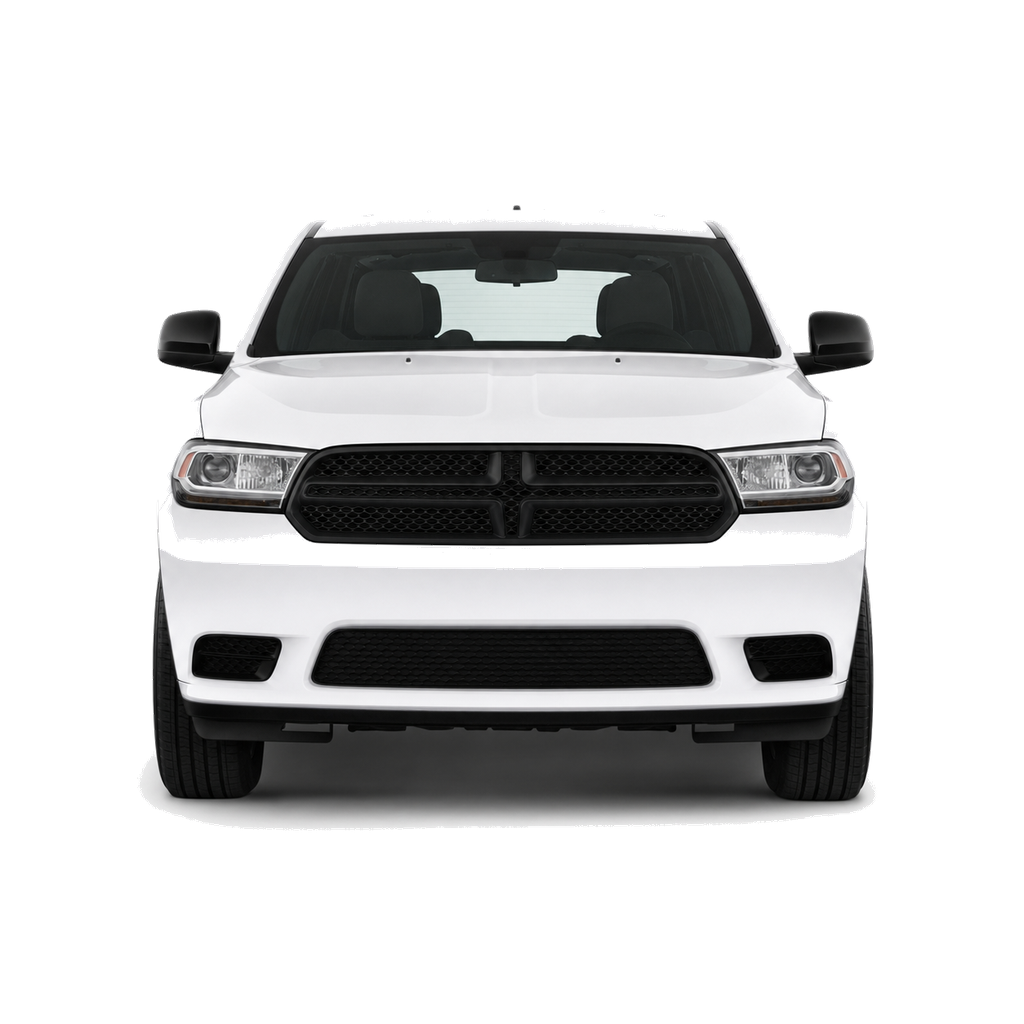
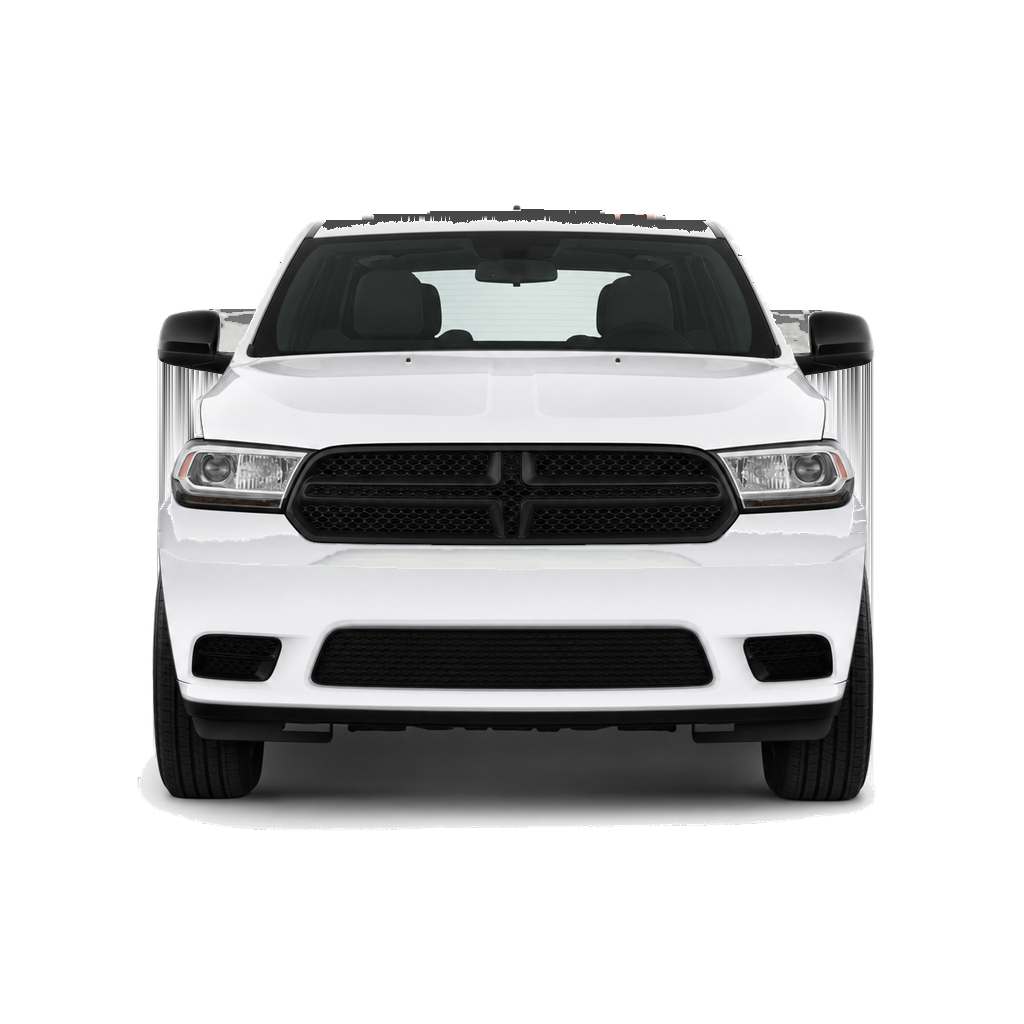
Fix Durango Front fascia alpha holes from DHC-ICE studio
Rebuild white/black Front plates so the under-grille fascia is solid paint (no stage bleed). Use DHC-ICEv2 page-02 front as studio guidance; leave compiled-app Front untouched. Re-download zip after pull — hard refresh is not enough for a local extract.

Changed region(s): [[0.1562, 0.2812, 0.875, 0.5625], [0.3125, 0.1875, 0.6875, 0.25], [0.2188, 0.2812, 0.25, 0.3438]]

diff --git a/visualizer/README.md b/visualizer/README.md
@@ -34,7 +34,9 @@ Catalog `w` values are percent of stage/vehicle width, tuned for Durango against
 
 Click-to-place defaults are **view-aware** (front/rear/hero/side) and include Durango `fixtureNudge` (+1% Y) from the Perplexity reference.
 
-White Durango plates are synced from `compiled-app/` (no matte despill). Black body uses the existing `*_black.png` plates.
+White/black **Front** plates (`durango_front.png`, `durango_front_black.png`) were rebuilt to close internal alpha holes in the fascia under the grille (jagged stage bleed). Studio guidance came from DHC-ICEv2 page-02 front photo; other views remain as previously synced. `compiled-app/` Front is left untouched as reference capital.
+
+If you downloaded a zip of this branch earlier, **re-download** after this Front fix — a hard refresh is not enough for a local zip extract.
 
 ## Out of scope (this milestone)
 
@@ -45,7 +47,7 @@ White Durango plates are synced from `compiled-app/` (no matte despill). Black b
 
 ## Asset provenance (reuse, not redesign)
 
-- **Durango vehicle PNGs**: pixel-identical to `compiled-app/` (encoding may differ). Do not despill/matte-clean.
+- **Durango vehicle PNGs**: non-Front views match prior sync; **Front** white/black plates were hole-filled from DHC-ICEv2 page-02 (fascia alpha repair). Do not re-run blanket despill.
 - **FedSig fx cutouts**: MicroPulse / ALGT / ILS / Dyna / stick sprites in `visualizer/fx/` are the editable source cutouts.
 - **Round lightheads**: higher-res hard-alpha sprites reused from `compiled-app/fx/fx_round_*.png`.
 - **Chrome tokens**: colors, 288px panels, 4:3 stage cradle, and density cues ported from `compiled-app/assets/index-CqPjqCI_.css` (`.dark`) into this file’s CSS.
